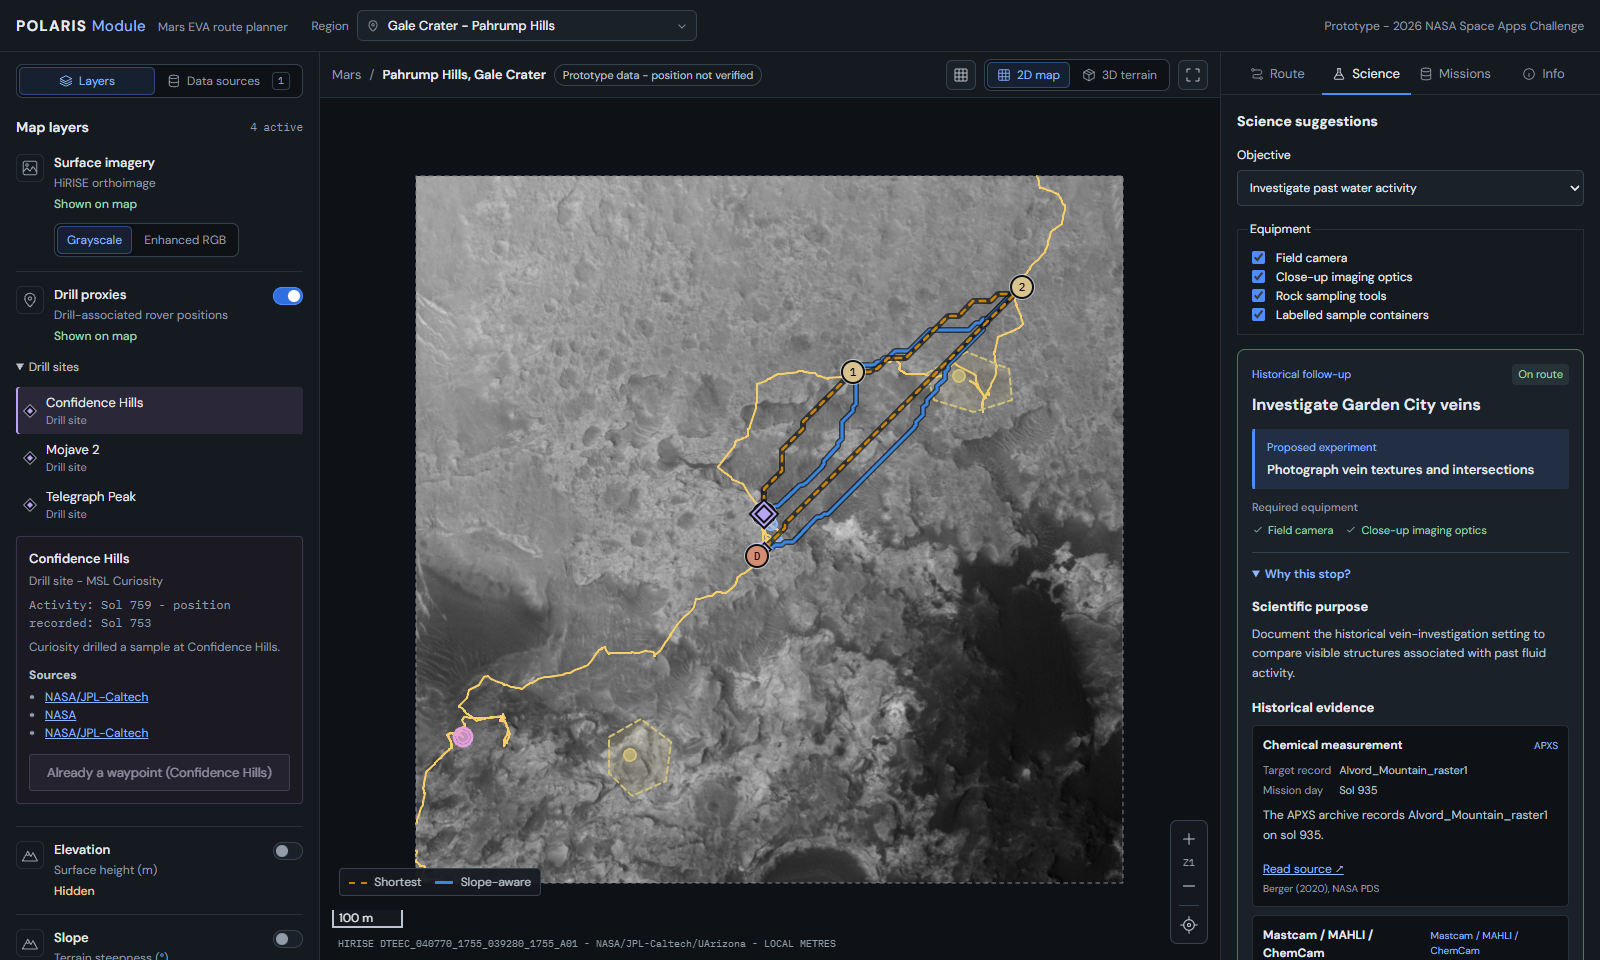
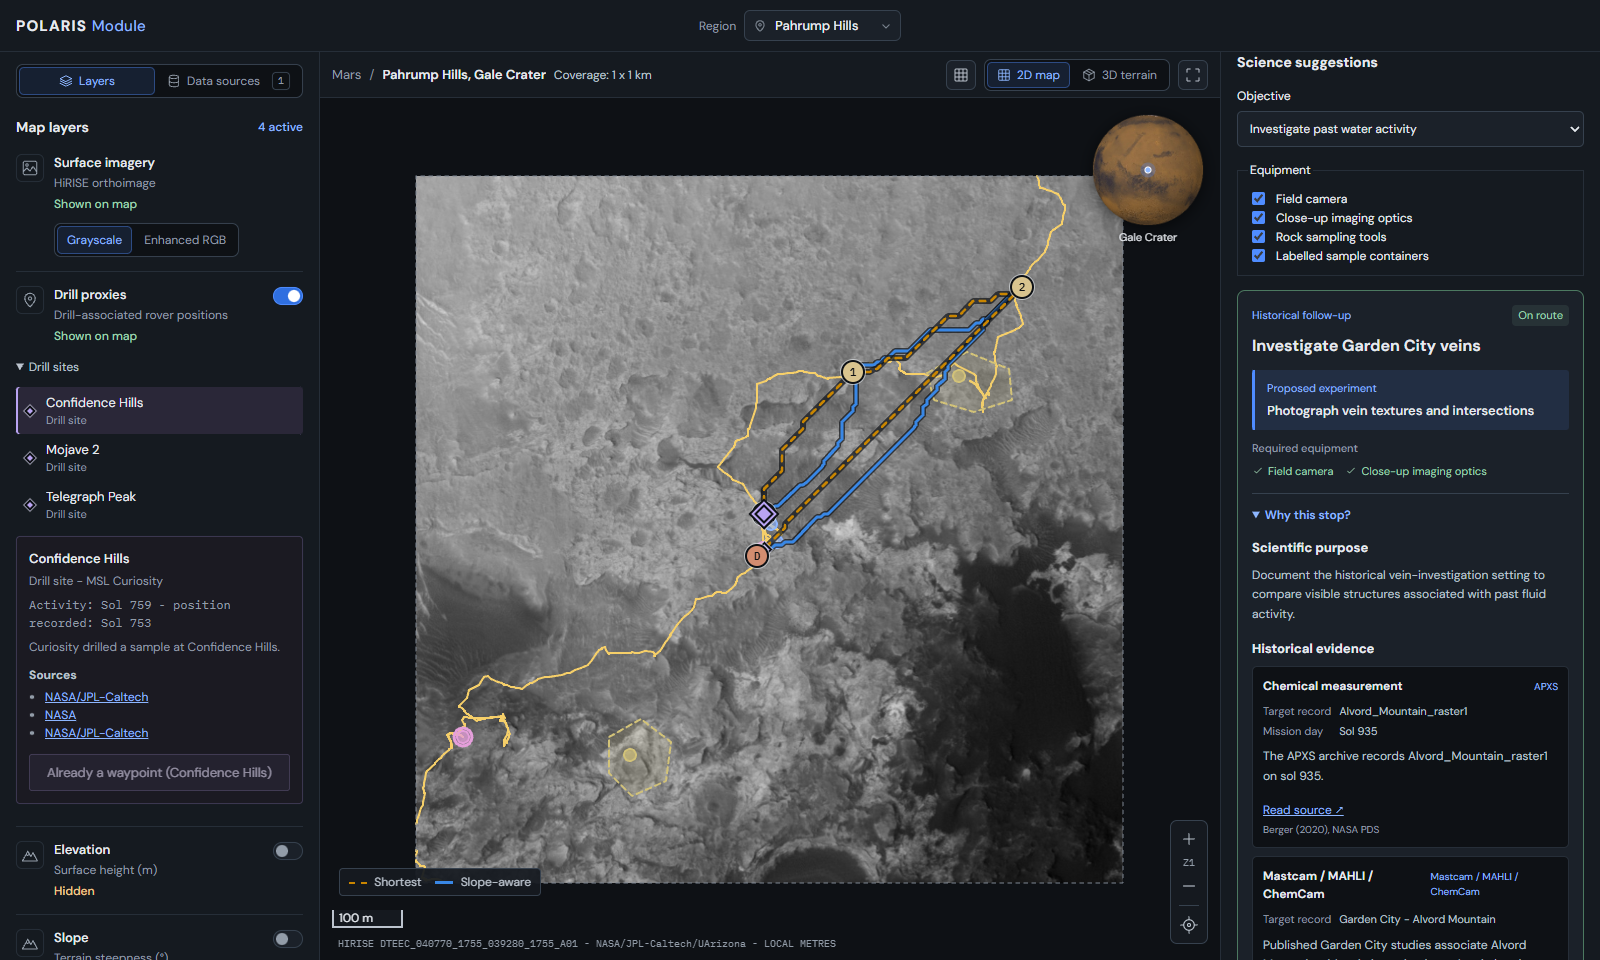
docs: describe oxygen reach and the Mars locator in the README
Add both features to the overview, walkthrough, how it works, data sources,
limits, structure and key documents, and retake the screenshots from the
current UI, adding one of the locator.

diff --git a/README.md b/README.md
@@ -3,7 +3,8 @@
 **A Mars EVA route planner built on real HiRISE terrain.**
 Plan a walking traverse across a 1 × 1 km patch of Gale Crater, compare a
 shortest route with a slope-aware one, add science activities backed by
-Curiosity's findings, and export the plan as a mission report.
+Curiosity's findings, check how far an astronaut's oxygen lasts along each
+route, and export the plan as a mission report.
 
 Built for the *Interplanetary Survival Guide: Martian Map* challenge of the
 2026 NASA Space Apps Challenge. Prototype, not an operational navigation or
@@ -12,7 +13,7 @@ safety tool.
 **[Try the live demo](https://hanaznable.github.io/polaris-module/)**: it runs
 in your browser, with nothing to install.
 
-![POLARIS Module planning a three-waypoint traverse on HiRISE terrain of Pahrump Hills, with the shortest and slope-aware routes, the historical Curiosity traverse and a science target's sourced details](docs/images/polaris-2d-plan.png)
+![POLARIS Module planning a three-waypoint traverse on HiRISE terrain of Pahrump Hills, with the shortest and slope-aware routes, the historical Curiosity traverse, the Mars locator globe, and a small oxygen tank: O2 markers where each route's budget runs out, amber dashes beyond, and the oxygen reach estimate showing 342 of 541 m within budget](docs/images/polaris-2d-plan.png)
 
 ## The problem
 
@@ -36,12 +37,16 @@ coordinate systems. POLARIS Module brings them onto one map for one site.
 | **Science on the map** | Curiosity drill sites, APXS chemistry measurements, the historical rover traverse and a published mineral finding, each with its sources. Add them to the route as waypoints. |
 | **Science suggestions** | Pick an objective (rock textures, past water activity or mineral diversity) and the equipment you carry. The Science tab suggests 14 sourced activities: photography and sample-context stops, two orbital imaging candidates and four proposed rock-chip samples. Each card explains why the stop matters and links its evidence; one click adds it to the route. |
 | **EVA estimate** | Distance, elevation gain and loss, an elevation profile and an estimated duration from your walking speed and time per stop. Optional return to start. |
+| **Oxygen reach** | Set the usable oxygen each astronaut carries (default 0.54 kg, the EVA suit's primary supply). At NASA's Mars closed-loop rate of 0.076 kg per hour, with a 30-minute reserve held back, the planner shows how far each route gets before the budget runs out: an O2 marker at that point and amber dashes beyond it, in 2D and 3D. |
+| **Where on Mars** | A globe in the map corner shows where Gale Crater is on Mars. Click it to see where Pahrump Hills sits in Gale Crater, on two NASA context images. |
 | **3D terrain view** | The same terrain, imagery, routes and markers in 3D, at true vertical scale by default. |
-| **Missions and reports** | Save named missions in the browser, export or import them as JSON, and export a printable or JSON mission report with sources, assumptions and limitations. Missions and reports keep the chosen science activities and their evidence. New missions use format v3, which also keeps the oxygen settings ([NASA-based oxygen model](docs/eva/oxygen-budget.md)); v1 and v2 files still open. |
+| **Missions and reports** | Save named missions in the browser, export or import them as JSON, and export a printable or JSON mission report with sources, assumptions and limitations. Missions and reports keep the chosen science activities and their evidence, and the oxygen estimate. New missions use format v3, which also keeps the oxygen setting; v1 and v2 files still open. The **Info** tab shows a mission brief: the area, the plan, its objectives and the equipment it needs. |
 
 ![The Science tab with the objective "Investigate past water activity", the equipment checklist and the Garden City veins activity added to the route, its historical evidence open, and the science mission sites shown on the map](docs/images/polaris-science-suggestions.png)
 
-![The plan with the Garden City activity added, in the 3D terrain view, with heights exaggerated 2× for display](docs/images/polaris-3d-terrain.png)
+![The plan with the Garden City activity added, in the 3D terrain view with heights exaggerated 2× for display, showing the same O2 markers and beyond-budget sections](docs/images/polaris-3d-terrain.png)
+
+![The Mars locator opened: Pahrump Hills marked approximately on a NASA overview of Gale Crater, above NASA's labelled map of Pahrump Hills at the base of Mount Sharp](docs/images/polaris-mars-locator.png)
 
 ## Try it
 
@@ -71,7 +76,8 @@ workflow"); it is redeployed only when someone runs it.
 
 1. The app opens on **Gale Crater - Pahrump Hills**. The scale bar shows
    distance; the grid button in the map toolbar adds a metric grid with local
-   east/north labels.
+   east/north labels. Click the **Gale Crater** globe in the map corner to see
+   where the site is.
 2. In the left panel, open **Drill sites** under **Drill proxies**, select
    **Confidence Hills** and choose **Add as waypoint**. Its card shows the drill
    sols and sources.
@@ -79,6 +85,9 @@ workflow"); it is redeployed only when someone runs it.
 4. Compare **Shortest** (dashed) and **Slope-aware** (solid). Move the
    **Max slope** slider and watch the slope-aware route change, or fail with
    a reason. The planner notes that only the slope-aware route applies the limit.
+   Then lower the **Oxygen tank** slider until an **O2** marker appears: the
+   route turns to amber dashes where the oxygen budget runs out, and the
+   **Oxygen reach estimate** says how many metres are within budget.
 5. Open the **Science** tab. Choose the objective **Investigate past water
    activity**, tick the equipment you carry, open **Why this stop?** on a card
    and choose **Add to route**. A card that needs equipment you have not ticked
@@ -103,7 +112,7 @@ flowchart LR
   G --> I["2D map (Leaflet)<br/>3D view (Three.js)"]
   G --> K["Science suggestions<br/>objective + equipment"]
   K --> H
-  H --> J["EVA estimate, profile,<br/>mission report"]
+  H --> J["EVA estimate, profile,<br/>oxygen reach, mission report"]
 ```
 
 - **Data preparation (Python).** The HiRISE terrain model is cropped to a
@@ -124,6 +133,12 @@ flowchart LR
   place share one route stop, so the time per stop is counted once. Removing an
   activity removes its stop only if nothing else uses it. Routing costs and the
   EVA arithmetic do not change.
+- **Oxygen reach.** A constant-rate mass balance per astronaut: oxygen
+  needed = 0.076 kg/h × (walking time + stop time + 30 min reserve). The
+  planner walks each route in order at your walking speed, uses up time at
+  each stop, and marks the point where the budget runs out. Return to start
+  includes the return leg. The tank setting never changes the route itself.
+  Method and sources: [oxygen budget](docs/eva/oxygen-budget.md).
 - **Display.** Leaflet shows the 2D map in local metres. Three.js shows the
   terrain in 3D and loads only when that view is opened.
 - **No backend.** Everything runs in the browser from static files. Missions
@@ -142,6 +157,10 @@ flowchart LR
 | Mineral finding | [NASA/JPL: tridymite found at Buckskin](https://www.jpl.nasa.gov/news/nasa-scientists-discover-unexpected-mineral-on-mars/) | Buckskin sample marker |
 | Rock textures | McBride et al. (2015), [LPSC abstract 2855](https://www.hou.usra.edu/meetings/lpsc2015/pdf/2855.pdf) | Photography activities at Pelona, Punchbowl and Pickhandle |
 | Past water and mineralogy | [NASA/JPL: Garden City veins](https://www.jpl.nasa.gov/news/upgrade-helps-nasa-study-mineral-veins-on-mars/); Rampe et al. (2015), [NASA NTRS 20150019443](https://ntrs.nasa.gov/api/citations/20150019443/downloads/20150019443.pdf); [JPL PIA21146](https://www.jpl.nasa.gov/images/pia21146-mudstone-mineralogy-from-curiositys-chemin-2013-to-2016/) | Water and mineral-diversity activities |
+| Oxygen rate | [NASA Life Support Baseline Values and Assumptions (BVAD) Rev2, 2022](https://ntrs.nasa.gov/api/citations/20210024855/downloads/BVAD_2.15.22-final.pdf#page=148), section 4.6.2 | 0.076 kg/h Mars closed-loop oxygen use |
+| Oxygen supply and reserve | [NASA *Suited for Spacewalking*, 1994](https://ntrs.nasa.gov/api/citations/19950007475/downloads/19950007475.pdf#page=26), p. 17; [NASA EVA Hardware & Operations Overview, 2012](https://ntrs.nasa.gov/api/citations/20120011735/downloads/20120011735.pdf#page=10), slide 10 | 0.54 kg default supply; 30-minute planning reserve |
+| Mars globe | [NASA/JPL Solar System Simulator Mars map](https://space.jpl.nasa.gov/tmaps/mars.html) (Viking imagery, Caltech/JPL/USGS) | Locator globe |
+| Gale and Pahrump context | [PIA16058, Curiosity Cradled by Gale Crater](https://science.nasa.gov/photojournal/curiosity-cradled-by-gale-crater/); [PIA18474, Slopes of Mount Sharp](https://www.jpl.nasa.gov/images/pia18474-slopes-of-mount-sharp/) | Location context images |
 | Sampling methods | [NASA Spacewalking Tools](https://www.nasa.gov/suits-and-rovers/spacewalking-tools/); Naids et al. (2021), [NASA NTRS 20210000242](https://ntrs.nasa.gov/api/citations/20210000242/downloads/Developing%20Geology%20Sampling%20Tools_Lunar%20Surface%20Science%20Workshop_FINAL_2021.pdf); Apollo sample-bag records | Rock-chip sampling plans and equipment |
 
 Image and terrain credit: NASA/JPL-Caltech/UArizona. Each package in
@@ -170,6 +189,14 @@ POLARIS Module is a planning prototype. It says what it does not know.
   availability and task duration are not established. The two orbital
   candidates are imaging regions chosen by the project, not mineral detections.
   Activities use your time per stop; none has its own duration.
+- **Oxygen reach is an oxygen-only estimate.** It uses one constant rate. It
+  does not model fitness, workload, slope effort, suit leaks, CO2, water,
+  power or temperature. The O2 marker is where the planning reserve begins,
+  not where oxygen runs out, and it is not a safe or certified EVA limit. Only
+  the 0.54 kg default is a cited suit value; other tank sizes are what-ifs.
+- **The locator is approximate.** The globe marks the Gale region, not the
+  exact 1 km area, and the highlight on the Gale overview is a hand-placed
+  guide, not a georeferenced position.
 - **No hazard, thermal or mineral-abundance model.** The enhanced RGB image uses
   synthetic blue and is not true colour or a mineral map. CRISM, THEMIS,
   geological units and hazard maps have not been integrated.
@@ -180,8 +207,8 @@ POLARIS Module is a planning prototype. It says what it does not know.
 src/features/
   datasets/      Terrain and science contracts, loaders, region registry
   routing/       A* pathfinding and route planning (pure TypeScript)
-  eva/           Duration estimate and elevation profile
-  map/           2D map, waypoints, layer panel
+  eva/           Duration estimate, elevation profile and oxygen budget
+  map/           2D map, waypoints, layer panel, Mars locator
   mapLayers/     Elevation/slope overlays, context layers, RGB imagery
   science/       Science target list and details
   scienceSuggestions/  Objective and equipment choice, activity cards, map evidence
@@ -189,7 +216,7 @@ src/features/
   mission/       Planner panel and mission report
   missions/      Saved missions: browser library, JSON import/export
 scripts/terrain/ Python preprocessing, activity exporters and source checks
-public/data/     Processed terrain, imagery, science, activity and context packages
+public/data/     Processed terrain, imagery, science, activity, context and locator packages
 docs/            Data contracts, terrain reviews and validation records
 ```
 
@@ -200,6 +227,8 @@ Key documents:
 - [Terrain data contract](docs/terrain-data-contract.md)
 - [Science target contract](docs/science-target-contract.md) and
   [display context contract](docs/display-context-contract.md)
+- [Oxygen budget: sources, equation and limits](docs/eva/oxygen-budget.md)
+- [Mars locator images and sources](public/data/locator/README.md)
 - [3D coordinate conventions](src/features/terrain3d/README.md)
 - [Georeferencing review](docs/terrain/georeferencing-review.md) and
   [terrain validation records](docs/terrain/README.md)
@@ -212,7 +241,7 @@ Key documents:
 ## Development
 
 ```sh
-npm test         # Unit tests: routing, contracts, coordinates, missions, science activities, 3D geometry
+npm test         # Unit tests: routing, contracts, coordinates, missions, science activities, oxygen, 3D geometry
 npm run lint     # ESLint
 npm run build    # Type-check and production build
 npm run preview  # Serve the production build
